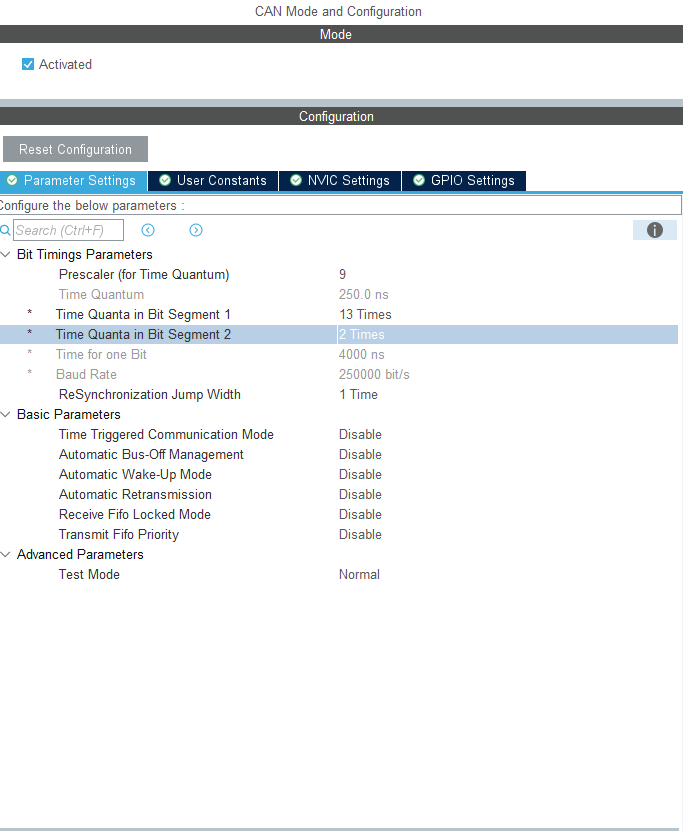
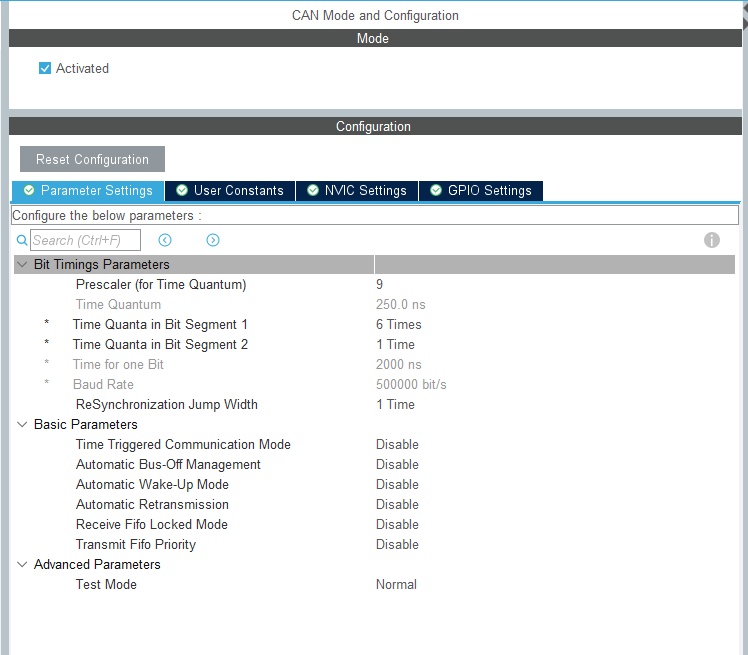
Cập nhật CAN 500kbps và frame 0x102

Changed region(s): [[0.0, 0.0, 1.0, 1.0], [0.4919, 0.8855, 0.5534, 0.916]]

diff --git a/Core/Src/main.cpp b/Core/Src/main.cpp
@@ -3,6 +3,7 @@
   ******************************************************************************
   * @file           : main.c
   * @brief          : Main program body
+  * @author         : Chu Manh Hung    
   ******************************************************************************
   * @attention
   *
@@ -24,7 +25,7 @@
 /* USER CODE BEGIN Includes */
 #include <string.h>
 #include <stdio.h>
-#include "SystemTimer.h"
+#include "stm32f1xx_hal.h"
 #include "Led.h"
 #include "Buzzer.h"
 #include "Sensor.h"
@@ -64,15 +65,13 @@ extern uint8_t FATFS_LinkDriver(Diskio_drvTypeDef *drv, char *path);
 /* Private variables ---------------------------------------------------------*/
 CAN_HandleTypeDef hcan;
 
-// Đã xóa hspi2 vì sử dụng SpiBus Bare-metal
-/* USER CODE BEGIN PV */
-Led ledOb(GPIOB, 1<<2);
-Buzzer buzzer(GPIOC, 1<<15);
-Sensor cb(GPIOC, 1<<13);
-Relay relay(GPIOC, 1<<7);
+Led ledOb(GPIOB, GPIO_PIN_2);
+Buzzer buzzer(GPIOC, GPIO_PIN_15);
+Sensor cb(GPIOC, GPIO_PIN_13);
+Relay relay(GPIOC, GPIO_PIN_7);
 
 volatile bool rtcErrorFlag = false;
-Led7Segment dp(GPIOC, 1<<5, GPIOC, 1<<7, GPIOC, 1<<6);
+Led7Segment dp(GPIOC, GPIO_PIN_5, GPIOC, GPIO_PIN_7, GPIOC, GPIO_PIN_6);
 
 I2cBus i2c1(I2C1, GPIOB, GPIO_PIN_6, GPIOB, GPIO_PIN_7);
 Rtc rtc(&i2c1);
@@ -82,8 +81,8 @@ SpiBus spi2_bus(SPI2, GPIOB, GPIO_PIN_13, GPIOB, GPIO_PIN_14, GPIOB, GPIO_PIN_15
 SpiBus spi3_bus(SPI3, GPIOB, GPIO_PIN_3, GPIOB, GPIO_PIN_4, GPIOB, GPIO_PIN_5); // Cho Rfid
 
 Rfid rfid(&spi3_bus, GPIOA, GPIO_PIN_15, GPIOC, GPIO_PIN_14); // cs,rst
-Mp3 mp3(&spi2_bus, GPIOC, 1<<2, GPIOA, 1<<0, GPIOA, 1<<1, GPIOB, 1<<12, GPIOC, 1<<3); //pwr,xrs,xdcs,xcs
-SdCard sdCard(&spi1_bus, GPIOC, 1<<8, GPIOB, 1<<0, GPIOB, 1<<1); // cs,sd_dt,pwr
+Mp3 mp3(&spi2_bus, GPIOC, GPIO_PIN_2, GPIOA, GPIO_PIN_0, GPIOA, GPIO_PIN_1, GPIOB, GPIO_PIN_12, GPIOC, GPIO_PIN_3); //pwr,xrs,xdcs,xcs
+SdCard sdCard(&spi1_bus, GPIOC, GPIO_PIN_8, GPIOB, GPIO_PIN_0, GPIOB, GPIO_PIN_1); // cs,sd_dt,pwr
 
 extern CAN_HandleTypeDef hcan;
 CanBus myCan(&hcan);
@@ -107,6 +106,10 @@ bool coMatKhauTam = false;
 uint32_t lastRelayDao = 0;
 bool choCapNhatManHinh = false;
 
+//kích hoạt test cảm biến
+#define ENABLE_SENSOR_DIAGNOSTIC
+
+#ifdef ENABLE_SENSOR_DIAGNOSTIC
 // Biến phục vụ chức năng Diagnostic cảm biến
 bool cheDoChanDoan = true; 
 uint32_t thoiDiemDoiTrangThai = 0;
@@ -117,6 +120,7 @@ uint32_t thoiGianTrong = 0;
 uint32_t thoiGianBiCheTruoc = 0;
 uint32_t thoiGianTrongTruoc = 0;
 bool coDuLieuMoi = false;
+#endif
 
 
 FATFS fs;       
@@ -137,7 +141,7 @@ extern "C" void EXTI0_IRQHandler(void) {
     if (EXTI->PR & (1 << 0)) {
         EXTI->PR = (1 << 0); // Xóa cờ ngắt
         sdCardChanged = true;
-        sdChangeTick = SystemTimer::getTick();
+        sdChangeTick = HAL_GetTick();
     }
 }
 uint32_t lastSdCheck = 0;
@@ -151,9 +155,10 @@ extern "C" void EXTI15_10_IRQHandler(void) {
 }
 
 void onSensorDetect() {
-    uint32_t currentTick = SystemTimer::getTick();
+    uint32_t currentTick = HAL_GetTick();
     bool isPinHigh = (GPIOC->IDR & (1 << 13)) != 0;
     
+#ifdef ENABLE_SENSOR_DIAGNOSTIC
     if (cheDoChanDoan) {
         static bool lastDiagState = false;
         if (currentTick - thoiDiemDoiTrangThai > 20) { 
@@ -179,6 +184,7 @@ void onSensorDetect() {
             }
         }
     }
+#endif
     
     if (isPinHigh) {
         productCount++;
@@ -192,52 +198,14 @@ void onSensorDetect() {
 }
 static void MX_GPIO_Init(void);
 static void MX_CAN_Init(void);
-// Đã xóa MX_SPI2_Init(void);
+
 /* USER CODE BEGIN PFP */
 
 /* USER CODE END PFP */
 
 /* Private user code ---------------------------------------------------------*/
 /* USER CODE BEGIN 0 */
-void test_sd_dma_vs_polling() {
-    sdCard.init();
-    sdCard.initialize();
-    uint32_t sectorCount = 200; // Đọc 100KB
-    uint8_t canData[7];
-    
-    // --- BÀI TEST 1: CÓ DMA ---
-    spi1_bus.EnableDMA(true);
-    uint32_t start1 = SystemTimer::getTick();
-    uint8_t res1 = sdCard.read(nullptr, 1000, sectorCount);
-    uint32_t diff1 = SystemTimer::getTick() - start1;
-    if (diff1 == 0) diff1 = 1;
-    uint32_t kbps1 = (sectorCount * 1000) / (2 * diff1);
-    
-    canData[0] = res1;
-    canData[1] = diff1 & 0xFF; canData[2] = (diff1 >> 8) & 0xFF;
-    canData[3] = sectorCount & 0xFF; canData[4] = (sectorCount >> 8) & 0xFF;
-    canData[5] = kbps1 & 0xFF; canData[6] = (kbps1 >> 8) & 0xFF;
-    myCan.sendFrame(0x126, canData, 7); // Gửi kết quả CÓ DMA
-    
-    SystemTimer::delay_ms(100); // Nghỉ một chút để Cangaroo hiển thị kịp
-    
-    // --- BÀI TEST 2: KHÔNG DMA (POLLING) ---
-    spi1_bus.EnableDMA(false);
-    uint32_t start2 = SystemTimer::getTick();
-    uint8_t res2 = sdCard.read(nullptr, 1000, sectorCount);
-    uint32_t diff2 = SystemTimer::getTick() - start2;
-    if (diff2 == 0) diff2 = 1;
-    uint32_t kbps2 = (sectorCount * 1000) / (2 * diff2);
-    
-    canData[0] = res2;
-    canData[1] = diff2 & 0xFF; canData[2] = (diff2 >> 8) & 0xFF;
-    canData[3] = sectorCount & 0xFF; canData[4] = (sectorCount >> 8) & 0xFF;
-    canData[5] = kbps2 & 0xFF; canData[6] = (kbps2 >> 8) & 0xFF;
-    myCan.sendFrame(0x127, canData, 7); // Gửi kết quả KHÔNG DMA
-    
-    // Khôi phục lại DMA cho các hoạt động sau này
-    spi1_bus.EnableDMA(true);
-}
+
 /* USER CODE END 0 */
 
 /**
@@ -269,12 +237,8 @@ int main(void)
   /* Initialize all configured peripherals */
   MX_GPIO_Init();
   MX_CAN_Init();
-  // Đã xóa MX_SPI2_Init();
   MX_FATFS_Init();
   /* USER CODE BEGIN 2 */
-  
-  // Benchmark SD Card RAW Speed
-  test_sd_dma_vs_polling();
 
   //Kích hoạt nguồn và Clock cho Backup Register. Nạp lại biến ầm từ thanh ghi BKP->DR1
   RCC->APB1ENR |= (RCC_APB1ENR_PWREN | RCC_APB1ENR_BKPEN); // Cấp xung nhịp cho PWR và BKP
@@ -284,8 +248,11 @@ int main(void)
   cycleCount = BKP->DR2;
 
   ledOb.init();
-  cb.init(Sensor::BOTH_EDGES);
-    EXTI->RTSR |= (1 << 13); // Bật luôn ngắt cạnh lên cho chức năng Diagnostic
+#ifdef ENABLE_SENSOR_DIAGNOSTIC
+  cb.init(Sensor::BOTH_EDGES); 
+#else
+  cb.init(Sensor::RISING_EDGE); 
+#endif
 
   cb.setCallback(onSensorDetect);
   dp.init();
@@ -296,6 +263,9 @@ int main(void)
   mp3.init();
   myCan.init();
   sdCard.init();
+  
+  // Kích hoạt DMA cho spi1
+  spi1_bus.EnableDMA(true);
   
   // Cấu hình ngắt EXTI0 cho chân PB0 (SD_DETECT)
   AFIO->EXTICR[0] &= ~(0xF << 0);
@@ -308,7 +278,7 @@ int main(void)
 
   //còi khởi động
   buzzer.beep(2, 50, 100, true);
-    SystemTimer::delay_ms(300); // Chờ tiếng bíp khởi động hơn tắt
+    HAL_Delay(300); // Chờ tiếng bíp khởi động hơn tắt
 
   fres = f_mount(&fs, "", 1);
   if (fres != FR_OK) {
@@ -355,6 +325,7 @@ int main(void)
 
     /* USER CODE BEGIN 3 */
     
+#ifdef ENABLE_SENSOR_DIAGNOSTIC
     //ĐỌC LOG CẢM BIẾN (DIAGNOSTIC)
     uint16_t currBlock = 0, currGap = 0, prevBlock = 0, prevGap = 0;
     if (coDuLieuMoi) {
@@ -381,9 +352,10 @@ int main(void)
         canData[7] = (prevGap >> 8) & 0xFF;
         myCan.sendFrame(0x124, canData, 8);
     }
+#endif
     
     //chong nhay led
-    uint32_t currentTick = SystemTimer::getTick();
+    uint32_t currentTick = HAL_GetTick();
     
     if (choCapNhatManHinh) {
         if (currentTick - lastRelayDao >= 100) {
@@ -409,7 +381,7 @@ int main(void)
                     mp3.init();
                     f_mount(NULL, "", 0); 
                     buzzer.beep(1, 100, 0, true); // Kêu 1 tiếng bíp hiệu rút thẻ
-                    SystemTimer::delay_ms(100);
+                    HAL_Delay(100);
                     GPIOA->BRR = (1 << 4); // Bật lại Amply
                 }
             } else {
@@ -417,7 +389,7 @@ int main(void)
                 if (!sdCardInSlot) {
                     GPIOA->BSRR = (1 << 4); // Tắt Amply (Mute) để chống nhiễu điện khi cắm nóng
                     sdCardInSlot = true; // đánh dấu là đã cắm vào
-                    uint32_t startMount = SystemTimer::getTick();
+                    uint32_t startMount = HAL_GetTick();
                 
                     sdCard.init();
                 
@@ -425,14 +397,14 @@ int main(void)
                     FATFS_LinkDriver(&USER_Driver, USERPath);
                 
                     // Chờ chút ổn định điện áp sau khi cắm nóng
-                    SystemTimer::delay_ms(300); // Tăng lên 300ms cho các thẻ dung lượng cao
+                    HAL_Delay(300); // Tăng lên 300ms cho các thẻ dung lượng cao
                 
                     uint8_t stat = sdCard.initialize();
                 
                     if (stat == 0x00) { // Khởi tạo SD thành công
                         if (f_mount(&fs, USERPath, 1) == FR_OK) {
                             daNhanTheSD = true;
-                              uint32_t mountTime = SystemTimer::getTick() - startMount;
+                              uint32_t mountTime = HAL_GetTick() - startMount;
                           
                               // Kêu 2 tiếng ngắn báo thành công
                           buzzer.beep(2, 50, 100, true); 
@@ -442,7 +414,7 @@ int main(void)
                           dp.setValue(mountTime);
                           dp.update(false);
                           lastDisplayValue = mountTime;
-                          showMountTimeUntil = SystemTimer::getTick() + 3000;
+                          showMountTimeUntil = HAL_GetTick() + 3000;
                           
                           // Gửi thời gian kết nối (ms) qua mạng CAN (ID 0x125)
                           // Định dạng Little-Endian 32-bit Integer để Cangaroo DBC giải mã chuẩn
@@ -465,7 +437,7 @@ int main(void)
                         buzzer.beep(5, 50, 50);
                     }
                     
-                    SystemTimer::delay_ms(100);
+                    HAL_Delay(100);
                     GPIOA->BRR = (1 << 4); // Bật lại Amply sau khi nạp thẻ xong
                 } // Kết thúc if (!sdCardInSlot)
             }
@@ -1006,6 +978,7 @@ void assert_failed(uint8_t *file, uint32_t line)
   /* USER CODE END 6 */
 }
 #endif /* USE_FULL_ASSERT */
+
 
 
 
